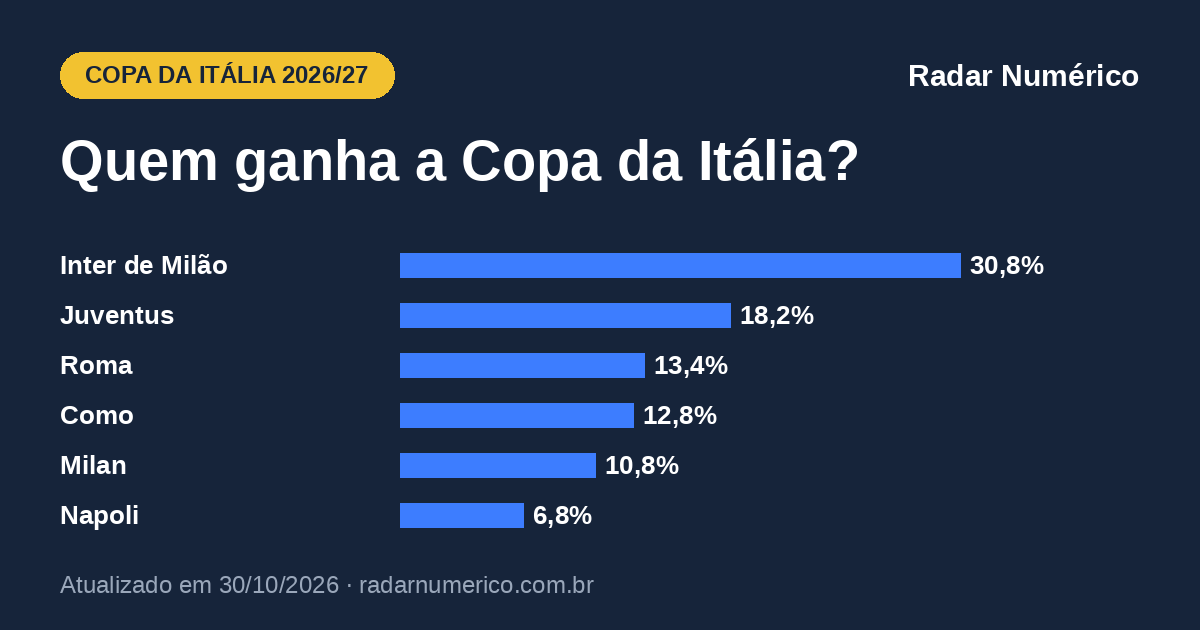
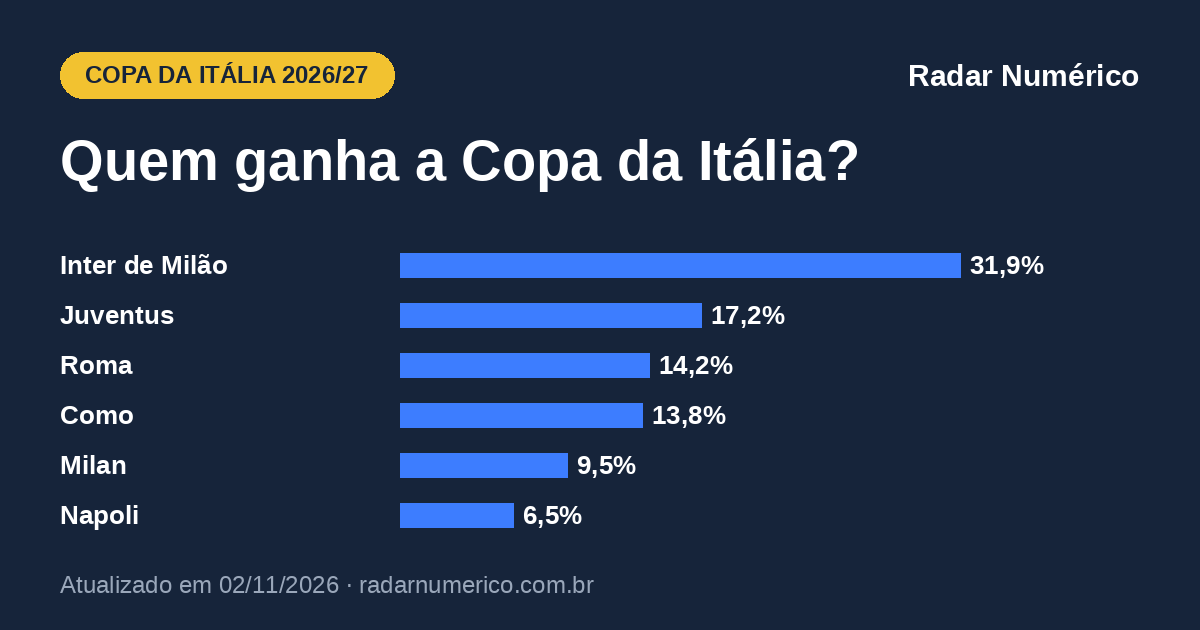
Ranking, ligas e copas europeias: atualizacao semanal 2026-11-02 (copa-da-italia)
Claude-Session: https://claude.ai/code/session_014c9M3pt9p9Std2Yz9ijZme

diff --git a/futebol/copa-da-italia/index.html b/futebol/copa-da-italia/index.html
@@ -13,11 +13,11 @@
 <meta property="og:title" content="Copa da Itália 2026/27: chances de título de cada time">
 <meta property="og:description" content="Probabilidades da Copa da Itália 2026/27: chance de cada time chegar às quartas, à semifinal, à final e de ser campeão.">
 <meta property="og:url" content="https://radarnumerico.com.br/futebol/copa-da-italia/">
-<meta property="og:image" content="https://radarnumerico.com.br/futebol/copa-da-italia/og.png?v=202610301128">
+<meta property="og:image" content="https://radarnumerico.com.br/futebol/copa-da-italia/og.png?v=202611021221">
 <meta property="og:image:width" content="1200">
 <meta property="og:image:height" content="630">
 <meta name="twitter:card" content="summary_large_image">
-<script type="application/ld+json">{"@context": "https://schema.org", "@graph": [{"@type": "WebPage", "@id": "https://radarnumerico.com.br/futebol/copa-da-italia/", "url": "https://radarnumerico.com.br/futebol/copa-da-italia/", "name": "Copa da Itália 2026/27: chances de título de cada time", "description": "Probabilidades da Copa da Itália 2026/27: chance de cada time chegar às quartas, à semifinal, à final e de ser campeão.", "inLanguage": "pt-BR", "dateModified": "2026-10-30T11:28:00-03:00", "isPartOf": {"@type": "WebSite", "name": "Radar Numérico", "url": "https://radarnumerico.com.br/"}, "about": {"@type": "Thing", "name": "Copa da Itália 2026/27"}}, {"@type": "BreadcrumbList", "itemListElement": [{"@type": "ListItem", "position": 1, "name": "Radar Numérico", "item": "https://radarnumerico.com.br/"}, {"@type": "ListItem", "position": 2, "name": "Copa da Itália 2026/27: probabilidades", "item": "https://radarnumerico.com.br/futebol/copa-da-italia/"}]}]}</script>
+<script type="application/ld+json">{"@context": "https://schema.org", "@graph": [{"@type": "WebPage", "@id": "https://radarnumerico.com.br/futebol/copa-da-italia/", "url": "https://radarnumerico.com.br/futebol/copa-da-italia/", "name": "Copa da Itália 2026/27: chances de título de cada time", "description": "Probabilidades da Copa da Itália 2026/27: chance de cada time chegar às quartas, à semifinal, à final e de ser campeão.", "inLanguage": "pt-BR", "dateModified": "2026-11-02T12:21:00-03:00", "isPartOf": {"@type": "WebSite", "name": "Radar Numérico", "url": "https://radarnumerico.com.br/"}, "about": {"@type": "Thing", "name": "Copa da Itália 2026/27"}}, {"@type": "BreadcrumbList", "itemListElement": [{"@type": "ListItem", "position": 1, "name": "Radar Numérico", "item": "https://radarnumerico.com.br/"}, {"@type": "ListItem", "position": 2, "name": "Copa da Itália 2026/27: probabilidades", "item": "https://radarnumerico.com.br/futebol/copa-da-italia/"}]}]}</script>
 <link rel="icon" type="image/png" href="/favicon.png">
 <link rel="apple-touch-icon" href="/apple-touch-icon.png">
 <link rel="preconnect" href="https://fonts.googleapis.com">
@@ -430,8 +430,8 @@ table.mzf td.bc{color:#fff}
 <header class="pg">
   <div class="kicker">Futebol · Itália</div>
   <h1>Copa da Itália 2026/27: chances de título de cada time</h1>
-  <div class="selo" id="selo"><span>Atualizado em <b>30/10/2026 às 11h28</b></span><span>fase atual: <b>Oitavas</b></span><span>16 times vivos</span></div>
-  <p class="lede">O favorito ao título da Copa da Itália é o <b>Inter de Milão</b>, com 30,8%, seguido por Juventus (18,2%) e Roma (13,4%). Calculamos, para os 16 times vivos, a chance de chegar a cada fase, simulando os jogos já marcados e o sorteio das fases seguintes 20 mil vezes. O campeão ganha vaga na Liga Europa.</p>
+  <div class="selo" id="selo"><span>Atualizado em <b>02/11/2026 às 12h21</b></span><span>fase atual: <b>Oitavas</b></span><span>16 times vivos</span></div>
+  <p class="lede">O favorito ao título da Copa da Itália é o <b>Inter de Milão</b>, com 31,9%, seguido por Juventus (17,2%) e Roma (14,2%). Calculamos, para os 16 times vivos, a chance de chegar a cada fase, simulando os jogos já marcados e o sorteio das fases seguintes 20 mil vezes. O campeão ganha vaga na Liga Europa.</p>
 </header>
 
 <section class="g" id="s-trilha">
@@ -489,7 +489,7 @@ table.mzf td.bc{color:#fff}
 
 <div class="metod">
   <p class="marca">Radar Numérico</p>
-  <p id="rodape">Probabilidades da Copa da Itália 2026/27 atualizadas em 30/10/2026 às 11h28.</p>
+  <p id="rodape">Probabilidades da Copa da Itália 2026/27 atualizadas em 02/11/2026 às 12h21.</p>
   <p>Como calculamos: um algoritmo desenvolvido pelo economista Augusto Pellegrini estima a força de cada time a partir das cotações de mercado de todos os seus jogos recentes, em todas as competições. Simulamos a copa 20 mil vezes: os jogos já marcados e, depois, o sorteio de cada fase. Empate em jogo único vai à prorrogação e aos pênaltis. Fonte: Radar Numérico.</p>
 </div>
 </main>
@@ -498,7 +498,7 @@ table.mzf td.bc{color:#fff}
 <div id="tip" role="tooltip"></div>
 <div id="toast" role="status"></div>
 <script>
-const D = {"slug":"copa-da-italia","nome":"Copa da Itália","gerado_em":"2026-10-30T11:28","tams":[8,4,2,1],"rot":["Quartas","Semifinal","Final","Campeão"],"atual_rot":"Oitavas","cai_antes":"Cai nas oitavas","n_vivos":16,"times":{"Udinese":{"id":"3202","fases":[0.1991,0.0556,0.0059,0.001],"campeao":0.001,"forca":44.4,"cab":false},"Verona":{"id":"3204","fases":[0.0795,0.0103,0.0008,0.0001],"campeao":0.0001,"forca":38.4,"cab":false},"Bologna":{"id":"3205","fases":[0.8336,0.2112,0.0474,0.0162],"campeao":0.0162,"forca":50.1,"cab":false},"Como":{"id":"3280","fases":[0.9005,0.4965,0.2411,0.1284],"campeao":0.1284,"forca":60.4,"cab":false},"Cremonese":{"id":"3281","fases":[0.0994,0.0212,0.0019,0.0003],"campeao":0.0003,"forca":41.3,"cab":false},"Monza":{"id":"3288","fases":[0.1019,0.0179,0.0013,0.0001],"campeao":0.0001,"forca":41.2,"cab":false},"Palermo":{"id":"1248","fases":[0.1664,0.0198,0.0008,0.0002],"campeao":0.0002,"forca":37.6,"cab":false},"Atalanta":{"id":"3180","fases":[0.8008,0.392,0.1297,0.0464],"campeao":0.0464,"forca":54.9,"cab":false},"Fiorentina":{"id":"3184","fases":[0.2473,0.1086,0.0221,0.0063],"campeao":0.0063,"forca":49.8,"cab":false},"Genoa":{"id":"3186","fases":[0.0869,0.0343,0.0039,0.0007],"campeao":0.0007,"forca":43.7,"cab":false},"Inter de Milão":{"id":"3187","fases":[0.9131,0.7347,0.4917,0.3078],"campeao":0.3078,"forca":64.7,"cab":false},"Juventus":{"id":"3190","fases":[0.8783,0.5084,0.363,0.1817],"campeao":0.1817,"forca":61.9,"cab":false},"Milan":{"id":"3193","fases":[0.8981,0.4643,0.212,0.1075],"campeao":0.1075,"forca":59.6,"cab":false},"Napoli":{"id":"3194","fases":[0.7527,0.4437,0.1747,0.068],"campeao":0.068,"forca":57.1,"cab":false},"Roma":{"id":"3197","fases":[0.9205,0.4512,0.2968,0.1342],"campeao":0.1342,"forca":59.8,"cab":false},"Sassuolo":{"id":"3199","fases":[0.1216,0.03,0.007,0.0012],"campeao":0.0012,"forca":45.3,"cab":false}},"ordem":["Inter de Milão","Juventus","Roma","Como","Milan","Napoli","Atalanta","Bologna","Fiorentina","Sassuolo","Udinese","Genoa","Cremonese","Palermo","Monza","Verona"],"confrontos":[{"m":"Inter de Milão","v":"Genoa","pm":0.9131,"vm":0.7477,"e":0.1826,"vv":0.0696},{"m":"Bologna","v":"Palermo","pm":0.8336,"vm":0.6396,"e":0.2306,"vv":0.1298},{"m":"Milan","v":"Monza","pm":0.8981,"vm":0.7179,"e":0.1974,"vv":0.0847},{"m":"Como","v":"Cremonese","pm":0.9005,"vm":0.726,"e":0.1935,"vv":0.0805},{"m":"Roma","v":"Verona","pm":0.9205,"vm":0.7524,"e":0.1802,"vv":0.0674},{"m":"Juventus","v":"Sassuolo","pm":0.8783,"vm":0.6953,"e":0.2078,"vv":0.0969},{"m":"Atalanta","v":"Udinese","pm":0.8008,"vm":0.61,"e":0.2412,"vv":0.1488},{"m":"Napoli","v":"Fiorentina","pm":0.7527,"vm":0.5592,"e":0.2568,"vv":0.184}],"finais":[{"a":"Inter de Milão","b":"Juventus","p":0.1771,"pa":0.5649},{"a":"Inter de Milão","b":"Roma","p":0.1457,"pa":0.6126},{"a":"Juventus","b":"Como","p":0.0888,"pa":0.5301},{"a":"Inter de Milão","b":"Napoli","p":0.087,"pa":0.6793},{"a":"Juventus","b":"Milan","p":0.0772,"pa":0.5573},{"a":"Roma","b":"Como","p":0.0693,"pa":0.4787}],"outros":0.0,"matriz":{"tipo":"lados","linhas":[["Inter de Milão",0.4917],["Como",0.2411],["Milan",0.212],["Bologna",0.0474],["Genoa",0.0039],["Cremonese",0.0019]],"colunas":[["Juventus",0.363],["Roma",0.2968],["Napoli",0.1747],["Atalanta",0.1297],["Fiorentina",0.0221],["Sassuolo",0.007]],"cel":[[0.1771,0.1457,0.087,0.0638,0.0109,0.0039],[0.0888,0.0693,0.0416,0.0323,0.0059,0.0015],[0.0772,0.0645,0.037,0.0263,0.0044,0.0011],[0.0169,0.0149,0.0076,0.0063,0.0009,0.0004],[0.0014,0.0011,0.0006,0.0006,0.0001,0.0],[0.0005,0.0008,0.0004,0.0002,0.0,0.0]]},"chave":{"fases":["Oitavas","Quartas","Semifinal","Final"],"jogos":[["Inter de Milão","Genoa"],["Bologna","Palermo"],["Milan","Monza"],["Como","Cremonese"],["Roma","Verona"],["Juventus","Sassuolo"],["Atalanta","Udinese"],["Napoli","Fiorentina"]],"atual":true,"p":{"vagas":[[[[["Inter de Milão",0.9131],["Genoa",0.0869]],[["Bologna",0.8336],["Palermo",0.1664]]],[[["Milan",0.8981],["Monza",0.1019]],[["Como",0.9005],["Cremonese",0.0994]]],[[["Roma",0.9205],["Verona",0.0795]],[["Juventus",0.8783],["Sassuolo",0.1216]]],[[["Atalanta",0.8008],["Udinese",0.1991]],[["Napoli",0.7527],["Fiorentina",0.2473]]]],[[[["Inter de Milão",0.7347],["Bologna",0.2112],["Genoa",0.0343],["Palermo",0.0198]],[["Como",0.4965],["Milan",0.4643],["Cremonese",0.0212],["Monza",0.0179]]],[[["Juventus",0.5084],["Roma",0.4512],["Sassuolo",0.03],["Verona",0.0103]],[["Napoli",0.4437],["Atalanta",0.392],["Fiorentina",0.1086],["Udinese",0.0556]]]],[[[["Inter de Milão",0.4917],["Como",0.2411],["Milan",0.212],["Bologna",0.0474],["Genoa",0.0039],["Cremonese",0.0019],["Monza",0.0013],["Palermo",0.0008]],[["Juventus",0.363],["Roma",0.2968],["Napoli",0.1747],["Atalanta",0.1297],["Fiorentina",0.0221],["Sassuolo",0.007],["Udinese",0.0059],["Verona",0.0008]]]]],"passa":[[0.9131,0.0869],[0.8336,0.1664],[0.8981,0.1019],[0.9005,0.0994],[0.9205,0.0795],[0.8783,0.1216],[0.8008,0.1991],[0.7527,0.2473]],"campeao":[["Inter de Milão",0.3078],["Juventus",0.1817],["Roma",0.1342],["Como",0.1284],["Milan",0.1075],["Napoli",0.068],["Atalanta",0.0464],["Bologna",0.0162],["Fiorentina",0.0063],["Sassuolo",0.0012],["Udinese",0.001],["Genoa",0.0007],["Cremonese",0.0003],["Palermo",0.0002],["Verona",0.0001],["Monza",0.0001]]},"fixa":true},"SIGLA":{"Udinese":"UDI","Verona":"VER","Bologna":"BOL","Como":"COM","Cremonese":"CRE","Monza":"MON","Palermo":"PAL","Atalanta":"ATA","Fiorentina":"FIO","Genoa":"GEN","Inter de Milão":"INT","Juventus":"JUV","Milan":"MIL","Napoli":"NAP","Roma":"ROM","Sassuolo":"SAS"},"SLUG":{"Udinese":"udinese","Verona":"verona","Bologna":"bologna","Como":"como","Cremonese":"cremonese","Monza":"ssd-monza","Palermo":"palermo","Atalanta":"atalanta","Fiorentina":"fiorentina","Genoa":"genoa","Inter de Milão":"inter-de-milao","Juventus":"juventus","Milan":"milan","Napoli":"napoli","Roma":"roma","Sassuolo":"sassuolo"},"CORES":{"Udinese":["#3EA6DD","#FFFFFF"],"Verona":["#5B2C83","#FFFFFF"],"Bologna":["#111111","#FFFFFF"],"Como":["#1B4D9B","#FFFFFF"],"Cremonese":["#5B2C83","#FFFFFF"],"Monza":["#3EA6DD","#FFFFFF"],"Palermo":["#16243A","#FFFFFF"],"Atalanta":["#111111","#FFFFFF"],"Fiorentina":["#5B2C83","#FFFFFF"],"Genoa":["#16243A","#FFFFFF"],"Inter de Milão":["#0068A8","#111111"],"Juventus":["#E35205","#FFFFFF"],"Milan":["#3EA6DD","#FFFFFF"],"Napoli":["#12A0D7","#FFFFFF"],"Roma":["#8E1F2F","#F0BC42"],"Sassuolo":["#3EA6DD","#FFFFFF"]},"vaga":"Liga Europa","liga":"serie-a-italiana","liga_nome":"Série A italiana","nota_fase":"Os oito primeiros da Série A de 2025/26 entram nas oitavas. Jogos únicos até as quartas; semifinal em ida e volta.","final":"Final em Roma, no Estádio Olímpico.","ultimo_jogo":{"data":"2026-09-15","hora":"16:00","m":"Fiorentina","v":"Pisa","gm":3,"gv":0,"rodada":"Round Of 32"}};
+const D = {"slug":"copa-da-italia","nome":"Copa da Itália","gerado_em":"2026-11-02T12:21","tams":[8,4,2,1],"rot":["Quartas","Semifinal","Final","Campeão"],"atual_rot":"Oitavas","cai_antes":"Cai nas oitavas","n_vivos":16,"times":{"Udinese":{"id":"3202","fases":[0.1855,0.0498,0.0046,0.0008],"campeao":0.0008,"forca":43.6,"cab":false},"Verona":{"id":"3204","fases":[0.0775,0.0109,0.0009,0.0001],"campeao":0.0001,"forca":38.2,"cab":false},"Bologna":{"id":"3205","fases":[0.836,0.2024,0.0451,0.0152],"campeao":0.0152,"forca":50.0,"cab":false},"Como":{"id":"3280","fases":[0.907,0.5177,0.2511,0.1381],"campeao":0.1381,"forca":60.8,"cab":false},"Cremonese":{"id":"3281","fases":[0.093,0.0198,0.002,0.0004],"campeao":0.0004,"forca":41.1,"cab":false},"Monza":{"id":"3288","fases":[0.1066,0.0204,0.0016,0.0002],"campeao":0.0002,"forca":41.2,"cab":false},"Palermo":{"id":"1248","fases":[0.164,0.0184,0.0009,0.0001],"campeao":0.0001,"forca":37.1,"cab":false},"Atalanta":{"id":"3180","fases":[0.8145,0.4049,0.1313,0.0449],"campeao":0.0449,"forca":54.8,"cab":false},"Fiorentina":{"id":"3184","fases":[0.2505,0.109,0.0216,0.0046],"campeao":0.0046,"forca":49.7,"cab":false},"Genoa":{"id":"3186","fases":[0.0814,0.033,0.0039,0.0008],"campeao":0.0008,"forca":43.5,"cab":false},"Inter de Milão":{"id":"3187","fases":[0.9185,0.7463,0.5014,0.3191],"campeao":0.3191,"forca":64.9,"cab":false},"Juventus":{"id":"3190","fases":[0.8751,0.4965,0.3544,0.172],"campeao":0.172,"forca":61.5,"cab":false},"Milan":{"id":"3193","fases":[0.8934,0.4421,0.1939,0.0953],"campeao":0.0953,"forca":59.1,"cab":false},"Napoli":{"id":"3194","fases":[0.7496,0.4363,0.1694,0.0649],"campeao":0.0649,"forca":56.8,"cab":false},"Roma":{"id":"3197","fases":[0.9225,0.4626,0.3109,0.1422],"campeao":0.1422,"forca":60.0,"cab":false},"Sassuolo":{"id":"3199","fases":[0.1249,0.03,0.0069,0.0013],"campeao":0.0013,"forca":45.3,"cab":false}},"ordem":["Inter de Milão","Juventus","Roma","Como","Milan","Napoli","Atalanta","Bologna","Fiorentina","Sassuolo","Udinese","Genoa","Cremonese","Monza","Verona","Palermo"],"confrontos":[{"m":"Inter de Milão","v":"Genoa","pm":0.9185,"vm":0.753,"e":0.18,"vv":0.067},{"m":"Bologna","v":"Palermo","pm":0.836,"vm":0.6457,"e":0.2285,"vv":0.1258},{"m":"Milan","v":"Monza","pm":0.8934,"vm":0.7125,"e":0.2001,"vv":0.0874},{"m":"Como","v":"Cremonese","pm":0.907,"vm":0.734,"e":0.1897,"vv":0.0763},{"m":"Roma","v":"Verona","pm":0.9225,"vm":0.7563,"e":0.1783,"vv":0.0654},{"m":"Juventus","v":"Sassuolo","pm":0.8751,"vm":0.6907,"e":0.2099,"vv":0.0993},{"m":"Atalanta","v":"Udinese","pm":0.8145,"vm":0.6214,"e":0.2374,"vv":0.1412},{"m":"Napoli","v":"Fiorentina","pm":0.7496,"vm":0.5555,"e":0.258,"vv":0.1865}],"finais":[{"a":"Inter de Milão","b":"Juventus","p":0.1777,"pa":0.5858},{"a":"Inter de Milão","b":"Roma","p":0.1552,"pa":0.605},{"a":"Juventus","b":"Como","p":0.0887,"pa":0.5113},{"a":"Inter de Milão","b":"Napoli","p":0.0844,"pa":0.6755},{"a":"Roma","b":"Como","p":0.078,"pa":0.4679},{"a":"Juventus","b":"Milan","p":0.068,"pa":0.5676}],"outros":0.0,"matriz":{"tipo":"lados","linhas":[["Inter de Milão",0.5014],["Como",0.2511],["Milan",0.1939],["Bologna",0.0451],["Genoa",0.0039],["Cremonese",0.002]],"colunas":[["Juventus",0.3544],["Roma",0.3109],["Napoli",0.1694],["Atalanta",0.1313],["Fiorentina",0.0216],["Sassuolo",0.0069]],"cel":[[0.1777,0.1552,0.0844,0.0668,0.0112,0.0039],[0.0887,0.078,0.0435,0.0323,0.0056,0.0015],[0.068,0.0621,0.0328,0.0246,0.0039,0.0011],[0.0163,0.0129,0.0076,0.0069,0.0008,0.0003],[0.0016,0.0011,0.0006,0.0003,0.0001,0.0001],[0.0008,0.0006,0.0003,0.0001,0.0,0.0]]},"chave":{"fases":["Oitavas","Quartas","Semifinal","Final"],"jogos":[["Inter de Milão","Genoa"],["Bologna","Palermo"],["Milan","Monza"],["Como","Cremonese"],["Roma","Verona"],["Juventus","Sassuolo"],["Atalanta","Udinese"],["Napoli","Fiorentina"]],"atual":true,"p":{"vagas":[[[[["Inter de Milão",0.9185],["Genoa",0.0814]],[["Bologna",0.836],["Palermo",0.164]]],[[["Milan",0.8934],["Monza",0.1066]],[["Como",0.907],["Cremonese",0.093]]],[[["Roma",0.9225],["Verona",0.0775]],[["Juventus",0.8751],["Sassuolo",0.1249]]],[[["Atalanta",0.8145],["Udinese",0.1855]],[["Napoli",0.7496],["Fiorentina",0.2505]]]],[[[["Inter de Milão",0.7463],["Bologna",0.2024],["Genoa",0.033],["Palermo",0.0184]],[["Como",0.5177],["Milan",0.4421],["Monza",0.0204],["Cremonese",0.0198]]],[[["Juventus",0.4965],["Roma",0.4626],["Sassuolo",0.03],["Verona",0.0109]],[["Napoli",0.4363],["Atalanta",0.4049],["Fiorentina",0.109],["Udinese",0.0498]]]],[[[["Inter de Milão",0.5014],["Como",0.2511],["Milan",0.1939],["Bologna",0.0451],["Genoa",0.0039],["Cremonese",0.002],["Monza",0.0016],["Palermo",0.0009]],[["Juventus",0.3544],["Roma",0.3109],["Napoli",0.1694],["Atalanta",0.1313],["Fiorentina",0.0216],["Sassuolo",0.0069],["Udinese",0.0046],["Verona",0.0009]]]]],"passa":[[0.9185,0.0814],[0.836,0.164],[0.8934,0.1066],[0.907,0.093],[0.9225,0.0775],[0.8751,0.1249],[0.8145,0.1855],[0.7496,0.2505]],"campeao":[["Inter de Milão",0.3191],["Juventus",0.172],["Roma",0.1422],["Como",0.1381],["Milan",0.0953],["Napoli",0.0649],["Atalanta",0.0449],["Bologna",0.0152],["Fiorentina",0.0046],["Sassuolo",0.0013],["Genoa",0.0008],["Udinese",0.0008],["Cremonese",0.0004],["Monza",0.0002],["Palermo",0.0001],["Verona",0.0001]]},"fixa":true},"SIGLA":{"Udinese":"UDI","Verona":"VER","Bologna":"BOL","Como":"COM","Cremonese":"CRE","Monza":"MON","Palermo":"PAL","Atalanta":"ATA","Fiorentina":"FIO","Genoa":"GEN","Inter de Milão":"INT","Juventus":"JUV","Milan":"MIL","Napoli":"NAP","Roma":"ROM","Sassuolo":"SAS"},"SLUG":{"Udinese":"udinese","Verona":"verona","Bologna":"bologna","Como":"como","Cremonese":"cremonese","Monza":"ssd-monza","Palermo":"palermo","Atalanta":"atalanta","Fiorentina":"fiorentina","Genoa":"genoa","Inter de Milão":"inter-de-milao","Juventus":"juventus","Milan":"milan","Napoli":"napoli","Roma":"roma","Sassuolo":"sassuolo"},"CORES":{"Udinese":["#3EA6DD","#FFFFFF"],"Verona":["#5B2C83","#FFFFFF"],"Bologna":["#111111","#FFFFFF"],"Como":["#1B4D9B","#FFFFFF"],"Cremonese":["#5B2C83","#FFFFFF"],"Monza":["#3EA6DD","#FFFFFF"],"Palermo":["#16243A","#FFFFFF"],"Atalanta":["#111111","#FFFFFF"],"Fiorentina":["#5B2C83","#FFFFFF"],"Genoa":["#16243A","#FFFFFF"],"Inter de Milão":["#0068A8","#111111"],"Juventus":["#E35205","#FFFFFF"],"Milan":["#3EA6DD","#FFFFFF"],"Napoli":["#12A0D7","#FFFFFF"],"Roma":["#8E1F2F","#F0BC42"],"Sassuolo":["#3EA6DD","#FFFFFF"]},"vaga":"Liga Europa","liga":"serie-a-italiana","liga_nome":"Série A italiana","nota_fase":"Os oito primeiros da Série A de 2025/26 entram nas oitavas. Jogos únicos até as quartas; semifinal em ida e volta.","final":"Final em Roma, no Estádio Olímpico.","ultimo_jogo":{"data":"2026-09-15","hora":"16:00","m":"Fiorentina","v":"Pisa","gm":3,"gv":0,"rodada":"Round Of 32"}};
 const T = D.times, ORD = D.ordem;
 const $ = s => document.querySelector(s);
 const SLUG = D.SLUG, SIGLA = D.SIGLA, CORES = D.CORES, ESC_DIR = 'escudos/';
